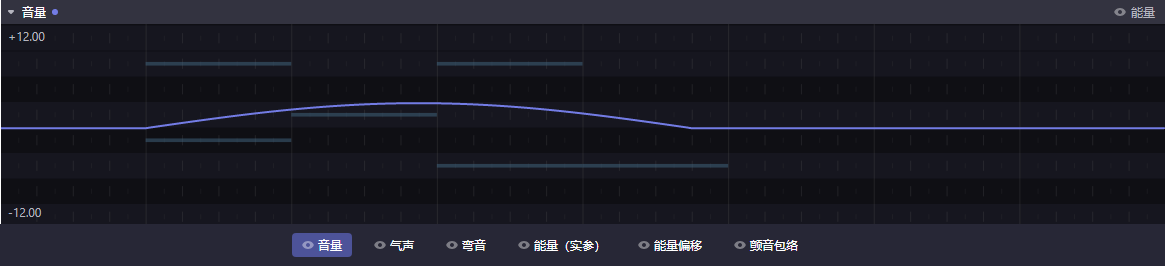
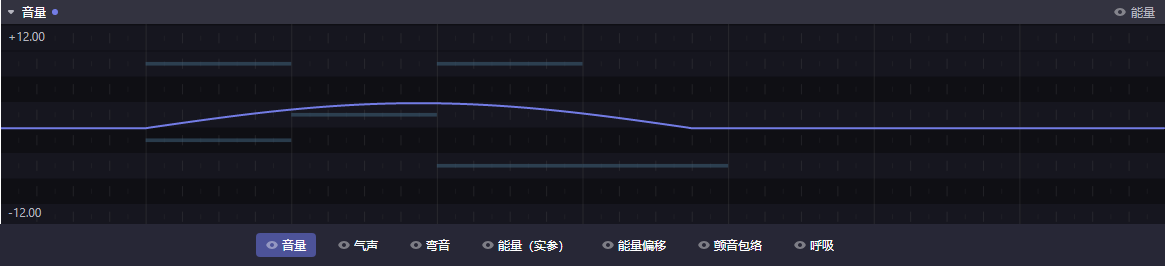
docs: 参数面板里的插件画布——插件文档、手册与插图
- 插件文档（中英、AI 参考）§10.6 补宿主侧呈现：不留缝透明底、作背景时压暗不收输入、画布不叠画布（激活画布时别的不画、可见互斥）、音素级写入先固定音素；侧栏画布钉进参数面板时的尺寸；参照实现。
- 用户手册参数面板一章新增「参数面板里的插件画布」一节与插图。
- 文档示例声源加只展示的时间轴画布「呼吸」（BreathCanvas，manifest 升 sdk-version 1.2），样例工程给几个长音填上曲线；截图机器人新增 parameter-timeline-canvas，其余参数面板插图随页签条多出「呼吸」重新生成。

Changed region(s): [[0.2163, 0.8722, 0.7416, 0.9925]]

diff --git a/tools/ScreenshotBot/demo-plugins/DemoVoice/BreathCanvas.cs b/tools/ScreenshotBot/demo-plugins/DemoVoice/BreathCanvas.cs
@@ -1,0 +1,74 @@
+using System;
+using System.Collections.Generic;
+using TuneLab.Foundation;
+using TuneLab.SDK;
+
+namespace TuneLab.DocsPlugins.DemoVoice;
+
+// 文档示例的时间轴画布（TimelineCanvasConfig）「呼吸」：每个音符一块，画一条随时间变化的呼吸强度曲线（只展示，不编辑）。
+// 值 = { "curve": [[秒, 值], …] }：秒是距这块画布起点（XToTime(0)）的秒数，值 0..1；默认 {} = 没有曲线（中性）。
+// 画法：逐像素采样——每列 XToTime(x) 换回秒、再按秒插值，跨过速度变化也与按秒插值的合成一致；只算露出来的列。
+sealed class BreathCanvas(ITimelineCanvasHost host, PropertyValue value) : ICanvasControl
+{
+    public static readonly PropertyValue Default = PropertyObject.Empty;
+
+    public static TimelineCanvasConfig Config(PropertyValue value)
+        => TimelineCanvasConfig.Create(Default, host => new BreathCanvas(host, value));
+
+    static readonly CanvasPen Line = CanvasPen.Create(Color.FromHex("#7FD1C0"), 2);
+    static readonly CanvasBrush Fill = CanvasBrush.Solid(Color.FromHex("#337FD1C0"));
+    static readonly CanvasPen Edge = CanvasPen.Create(Color.FromArgb(60, 255, 255, 255));
+    const double Pad = 6;
+
+    public void Render(ICanvasDrawing d)
+    {
+        double w = host.Width, h = host.Height;
+        d.DrawLine(new Point(0.5, 0), new Point(0.5, h), Edge);   // 音符起点处一条细线，分出相邻两块
+        var points = Read(value);
+        if (points.Count == 0)
+            return;
+
+        var visible = host.VisibleBounds;
+        int from = (int)Math.Floor(Math.Max(0, visible.Left)), to = (int)Math.Ceiling(Math.Min(w, visible.Right));
+        double start = host.TimeAxis.XToTime(0);
+        var line = new List<Point>();
+        for (int x = from; x <= to; x++)
+            line.Add(new Point(x, Pad + (h - 2 * Pad) * (1 - Evaluate(points, host.TimeAxis.XToTime(x) - start))));
+        if (line.Count < 2)
+            return;
+        var area = new List<Point>(line) { new(line[^1].X, h), new(line[0].X, h) };
+        d.FillPolygon(area, Fill);
+        d.DrawPolyline(line, Line);
+    }
+
+    static List<(double Time, double Value)> Read(PropertyValue value)
+    {
+        var points = new List<(double, double)>();
+        if (value.ToObject(out var obj) && obj.Map.TryGetValue("curve", out var curve) && curve.ToArray(out var array))
+        {
+            foreach (var item in array)
+            {
+                if (item.ToArray(out var pair) && pair.Count == 2 && pair[0].ToDouble(out var t) && pair[1].ToDouble(out var v))
+                    points.Add((t, Math.Clamp(v, 0, 1)));
+            }
+        }
+        points.Sort((a, b) => a.Item1.CompareTo(b.Item1));
+        return points;
+    }
+
+    static double Evaluate(List<(double Time, double Value)> points, double offset)
+    {
+        if (offset <= points[0].Time)
+            return points[0].Value;
+        for (int i = 1; i < points.Count; i++)
+        {
+            if (offset <= points[i].Time)
+            {
+                var (t0, v0) = points[i - 1];
+                var (t1, v1) = points[i];
+                return t1 > t0 ? v0 + (v1 - v0) * (offset - t0) / (t1 - t0) : v1;
+            }
+        }
+        return points[^1].Value;
+    }
+}

diff --git a/tools/ScreenshotBot/demo-plugins/DemoVoice/Plugin.cs b/tools/ScreenshotBot/demo-plugins/DemoVoice/Plugin.cs
@@ -67,7 +67,16 @@ public sealed class DemoVoiceEngine : IVoiceSynthesisEngine
     // 曲线数据经 IVoiceSynthesisSession.SynthesizedParameters 按同一 key（energy）承载；宿主作一等只读轨绘制。
     public IReadOnlyOrderedMap<PropertyKey, AutomationConfig> GetSynthesizedParameterConfigs(IVoiceSynthesisPartPropertyContext context) => mSynthesizedParameterConfigs;
     public ObjectConfig GetPartPropertyConfig(IVoiceSynthesisPartPropertyContext context) => ObjectConfig.Create(mPartProperties);
-    public ObjectConfig GetNotePropertyConfig(IVoiceSynthesisNotePropertyContext context) => ObjectConfig.Create(mNoteProperties);
+    // 时间轴画布「呼吸」：只在参数面板里、每个音符一块（见 BreathCanvas）。参数面板里 context 只有这一个音符，值从它取。
+    public ObjectConfig GetNotePropertyConfig(IVoiceSynthesisNotePropertyContext context)
+    {
+        var properties = new OrderedMap<PropertyKey, IControllerConfig>();
+        foreach (var kvp in mNoteProperties)
+            properties.Add(kvp.Key, kvp.Value);
+        var breath = context.Notes.Count == 1 && context.Notes[0].Properties.Map.TryGetValue("breath", out var value) ? value : BreathCanvas.Default;
+        properties.Add(("breath", "呼吸"), BreathCanvas.Config(breath));
+        return ObjectConfig.Create(properties);
+    }
     // 音素属性声明（复用 note 上下文）：按核相对 slot 键控授 schema——核（slot 0）= accent + offset、
     // 辅音（slot ≠ 0）= 仅 offset，验证按角色差异化。slot 遍历用 SDK 共享口径 PhonemeSlots.UnionSlots；
     // schema 若依赖当前属性值，在此对同 slot 各成员值做三态 Merge（同 GetNotePropertyConfig 契约）再条件化。

diff --git a/tools/ScreenshotBot/DemoProject.cs b/tools/ScreenshotBot/DemoProject.cs
@@ -71,6 +71,19 @@ internal static class DemoProject
             pos += R * beats;
         }
 
+        // 时间轴画布「呼吸」：几个长音上画一条呼吸强度曲线（秒 = 距音符起点），参数面板里画布的插图才有东西可看。
+        (int Note, double[][] Curve)[] breaths =
+        [
+            (2, [[0, 0.15], [0.35, 0.75], [0.9, 0.35]]),
+            (5, [[0, 0.3], [0.5, 0.85], [0.95, 0.2]]),
+            (9, [[0, 0.1], [0.6, 0.5], [1.3, 0.9], [1.95, 0.25]]),
+        ];
+        foreach (var (index, curve) in breaths)
+        {
+            var array = new PropertyArray(curve.Select(p => (PropertyValue)new PropertyArray([PropertyValue.Create(p[0]), PropertyValue.Create(p[1])])).ToList());
+            notes[index].Properties = new PropertyObject(new Map<string, PropertyValue> { { "breath", new PropertyObject(new Map<string, PropertyValue> { { "curve", array } }) } });
+        }
+
         // 参数曲线：音量做一个渐强渐弱，气声在末字上抬起来——参数面板的插图才有东西可看。
         var automations = new Map<string, AutomationInfo>();
         automations.Add("Volume", new AutomationInfo

diff --git a/tools/ScreenshotBot/ShotPlan.cs b/tools/ScreenshotBot/ShotPlan.cs
@@ -174,6 +174,19 @@ internal static class ShotPlan
         pianoWindow.CloseFocusedParameterPanel();
         await Camera.Settle(8);
 
+        // ==== 07 参数面板里的插件画布：示例声源的时间轴画布「呼吸」，每个音符一块 ====
+        // 画布实例在第一次画到时才建（推迟一拍），多等几帧再拍。
+        pianoWindow.ActiveAutomation = AutomationKey.NoteLane("breath");
+        await Camera.Settle(20);
+        {
+            var area = B(pianoScroll);
+            var tabArea = B(parameterTabBar);
+            double top = area.Y + PianoAreaHeight(pianoWindow);
+            camera.Shoot(window, "parameter-timeline-canvas", crop: new Rect(area.X, top, area.Width, tabArea.Bottom - top));
+        }
+        pianoWindow.ActiveAutomation = AutomationKey.Voice("Volume");
+        await Camera.Settle(6);
+
         // ==== 08 侧栏各页 ====
         vocalPart.Notes.ElementAt(2).Select();
         await Camera.Settle(10);

diff --git a/docs/plugin-development-llm.md b/docs/plugin-development-llm.md
@@ -256,6 +256,7 @@ public interface IEffectSynthesisPropertyContext { IReadOnlyList<IEffectSynthesi
 - `TimelineCanvasConfig.Create(PropertyValue defaultValue, Func<ITimelineCanvasHost, ICanvasControl> createControl)`、`.WithColor(string)`（不设=默认全透明 `#00000000`=宿主从调色板分配，同 `AutomationConfig`）。**只在参数面板里、沿时间线排布**：每个声明了它的对象（note 级=每个 note、音素级=每个音素）在自己时间段上占一块（宽=对象时间段、高=面板高）；侧栏不显示；标签栏按各 note 声明的并集常驻、用户不用钉。只能作 note/音素属性声明的**顶层成员**；无首选尺寸。值语义、实例寿命、控件/绘制/事件/草稿/弹出与 `CanvasConfig` 完全相同。
 - 选型：界面属于侧栏、与时间无关（或只按对象内相对位置画）→ `CanvasConfig`；必须与时间轴对齐、逐个对象编辑（如音素混合）→ `TimelineCanvasConfig`；同一字段只能选一种（侧栏可多选、多对象无共同时间段，故时间换算只有时间轴画布有）。
 - `ITimelineCanvasHost : ICanvasHost` 多 `ICanvasTimeAxis TimeAxis`（一定有）：`TimeToX(double seconds)`/`XToTime(double x)`，全局秒（同 `IVoiceSynthesisNoteView.StartTime`）↔ 画布坐标；跟钢琴窗时间轴、速度变化处不均匀，**别假设线性**；画布覆盖 `XToTime(0)`..`XToTime(Width)`，未必等于对象起止（note 钳到下一 note 起点、音素显示时间由宿主排版），按自己数据的绝对时间换算。**所见即所闻**：按秒定义的曲线逐像素采样（每列 `XToTime(x)` 再按秒求值），别只换算控制点连直线。**以宿主换算为准**、别用自己合成算出的音素时间画（合成回填后两者一致，过渡期宿主更新显示即重调 Render）。按尺寸排版（可能极窄/极矮/上万像素宽），宿主不告知位置。默认值宜中性或按对象内相对位置定义（未钉住音素长度随合成变）。
+- 宿主侧呈现（插件无需操作）：每块正好覆盖对象时间段、**相邻块不留缝**、透明底（分隔自己画）；作**背景参数**时照常 Render、宿主压暗垫在激活参数下、不收输入；**画布不叠画布**（激活是画布时别的画布不画；一块面板里画布可见互斥）；写音素级字段时宿主先固定该音符音素再写值、一个撤销步。用户也可把侧栏 `CanvasConfig` 钉进参数面板（每对象一块、宽=对象时长、高=面板高，host 仍是 `ICanvasHost` 无时间轴）。参照实现 `tests/plugins/V1.Voice/TimelineDemoCanvas.cs`（按秒存点+逐像素采样+只算 VisibleBounds 列、加/拖/删点、点符号弹 PopupTextBox、右键 PopupMenu、窄矮只画曲线）、`tools/ScreenshotBot/demo-plugins/DemoVoice/BreathCanvas.cs`（只展示的最小写法）。
 
 ### 扩展设置（IExtensionSettings，命名空间 `TuneLab.SDK`）
 > per-extension（per 能力实现者，如每个 voice/effect 引擎一份；安装包 ExtensionPackage 可含多个 extension）、随宿主持久化、跨工程共享的设置（API key / 模型路径 / 设备等）。**opt-in**：能力实现类**额外实现** `IExtensionSettings` 即接入；宿主 `x is IExtensionSettings` 探测，在「设置 > 扩展」分页渲染、按 extension 落盘、运行时回喂。

diff --git a/docs/user-manual.zh-CN.md b/docs/user-manual.zh-CN.md
@@ -349,6 +349,7 @@ if ($setup.ExitCode -ne 0) {
 - **声源声明的轨**：由引擎决定，比如上图中示例声源声明的「气声」「弯音」「能量」。
 - **效果器声明的轨**：挂在片段效果链上的每个效果器都可以声明自己的参数轨。
 - **属性 lane**：从音符/音素属性「在参数栏编辑」钉过来的轨。
+- **插件画布**：引擎自己画的编辑界面，每个音符（或音素）一块，见下文「参数面板里的插件画布」。
 - **回显轨（只读）**：引擎报告的「它实际用了什么值」。回显轨与同名的实参轨配对——点亮实参轨会连带显示回显，右键可以把回显**烘焙**进实参轨，之后就在这个底子上继续改。
 
 ![气声参数](images/manual/parameter-growl.png)
@@ -379,6 +380,21 @@ if ($setup.ExitCode -ne 0) {
 - **整个参数区**：`Ctrl+P` 或标题栏右键 **隐藏参数面板** 把整个参数区藏起来；藏着时页签条上的参数都不点亮，点任一参数（或 **+**）就重新显示。
 - **高度**：窗口放不下时各面板按比例一起压缩（每块至少保留一点高度），窗口变大后自动长回来。
 - **随工程保存**：面板布局存在 `.tlpx` 工程里，重新打开即还原（旧的 `.tlp` 不存，打开是单个面板）。改布局不进撤销，也不算工程有改动。
+
+### 参数面板里的插件画布
+
+![参数面板里的插件画布](images/manual/parameter-timeline-canvas.png)
+
+有的引擎会为音符或音素提供自己画的编辑界面（**画布**），比如一条随时间变化的曲线，外加几个按钮或文字。它在参数面板里显示为一条参数：
+每个声明了它的音符（或音素）在自己的时间段上占一块，跟着钢琴窗缩放、滚动。画布里怎么编辑由引擎决定（上图示例声源的「呼吸」只是展示一条曲线）；
+画布之间的空白处与没有画布的地方，照常是参数面板自己的操作。
+
+- **两种来源**：引擎声明为「属于时间轴」的画布直接出现在页签条上，不用钉；侧栏音符面板里的画布字段，也可以右键标题行
+  **在参数栏编辑**，钉过来后同样每个音符一块（钉选在标签栏空白处右键的勾选列表里管理）。
+- **作为背景**：画布参数的小眼睛开着、但激活的是别的参数时，画布照常画着、被压暗，点上去操作的是激活参数。
+- **画布不叠画布**：画布是一整块界面，两块叠起来哪块都看不清——激活的是画布时，别的画布不画、小眼睛也不点亮；
+  同一块面板里画布的小眼睛也只能开一个，打开一个会关掉别的。曲线类参数不受影响，照常能和画布一起显示。
+- **出现过就一直在**：页签条上的画布参数出现过之后就一直在（换声源才重新判断），合成过程中暂时没有音符声明它时，面板里只是空的。
 
 ---
 

diff --git a/docs/plugin-development.md b/docs/plugin-development.md
@@ -1300,6 +1300,24 @@ props.Add(("mix", "Mix"), TimelineCanvasConfig.Create(MixCanvas.Default, host =>
 - **Keep the default neutral** (no effect when untouched), or define it only by positions relative to the object: unlocked
   phonemes change length with synthesis, so a default whose effect depends on length makes objects the user never touched sound
   different after an edit elsewhere.
+- **How it looks in the parameter panel** (the host does this; nothing for you to do, but it helps your layout):
+  - Each block covers exactly the object's time span, **with no gap between neighbouring blocks**, on a transparent background —
+    whether to draw a separator is up to you.
+  - As a **background parameter** (visible while another parameter is active) it still renders; the host dims it and puts it
+    under the active parameter, and it receives no input then.
+  - **Canvases never stack**: while a canvas is the active parameter, other canvases are not drawn, and within one panel only one
+    canvas can be visible at a time (the user turning one on turns the others off). So your canvas never shares the space with
+    another canvas, though it may sit over other curves.
+  - When a phoneme-level field is written, the host locks that note's phonemes first and then writes the value, in one undo step.
+  - Users can also pin a **side-panel canvas** (`CanvasConfig`) into the parameter panel: it is then one block per object too, with
+    the object's duration as width and the panel height as height, and the host is still an `ICanvasHost` (no time axis) — a
+    side-panel canvas has to cope with any size anyway.
+
+Reference implementations: `tests/plugins/V1.Voice/TimelineDemoCanvas.cs` (the note-level "Timeline Demo" and core-phoneme
+"Phoneme Timeline": points stored in seconds, per-pixel sampling interpolated in seconds, only the columns `VisibleBounds` shows;
+click empty space to add a point, drag points, right-click to delete; click the symbol for a text box, right-click empty space
+for a language menu; only the curve when narrow or short) and `tools/ScreenshotBot/demo-plugins/DemoVoice/BreathCanvas.cs`
+(the minimal display-only version).
 
 ## 11. Packaging, Installation, Uninstallation
 

diff --git a/docs/plugin-development.zh-CN.md b/docs/plugin-development.zh-CN.md
@@ -1287,6 +1287,18 @@ props.Add(("mix", "Mix"), TimelineCanvasConfig.Create(MixCanvas.Default, host =>
   点字才弹 `PopupTextBox`）；要不要拆成两个控件类、还是一个类里按尺寸分支，你自己定。宿主不告诉你"在哪"，只给尺寸与换算。
 - **默认值宜中性**（未调即无效果），或只按对象内的相对位置定义：未钉住的音素长度随合成变化，默认值的作用若依赖长度，
   用户没碰过的对象会在别处编辑后听感改变。
+- **在参数面板里的样子**（宿主负责，你不用做什么，知道了好排版）：
+  - 每块正好覆盖对象的时间段，**相邻两块之间不留缝**、底是透明的——要不要画分隔由你定。
+  - 作为**背景参数**（可见、但激活的是别的参数）时照常 `Render`，宿主把它压暗、垫在激活参数下面，这时不收任何输入。
+  - **画布不叠画布**：激活的是画布时，别的画布不画；一块面板里画布的可见是互斥的（用户打开一个，别的就关掉）。
+    所以你的画布不会和另一块画布叠着显示，但可能垫着别的曲线。
+  - 写入音素级字段时，宿主先把这个音符的音素固定下来再写值，同一个撤销步骤。
+  - 用户也可以把**侧栏画布**（`CanvasConfig`）钉进参数面板：那时同样每个对象一块，宽是对象的时长、高是面板高度，host 仍是
+    `ICanvasHost`（没有时间轴）——侧栏画布本就要能接受任意宽高。
+
+参考实现：`tests/plugins/V1.Voice/TimelineDemoCanvas.cs`（音符级「Timeline Demo」与核音素级「Phoneme Timeline」：点按秒存、
+逐像素采样按秒插值、只算 `VisibleBounds` 露出的列；点空白加点、拖点、右键删点；点符号弹文本框、右键空白弹菜单选语言；
+窄矮时只画曲线）与 `tools/ScreenshotBot/demo-plugins/DemoVoice/BreathCanvas.cs`（只展示的最小写法）。
 
 ## 11. 打包、安装、卸载
 
